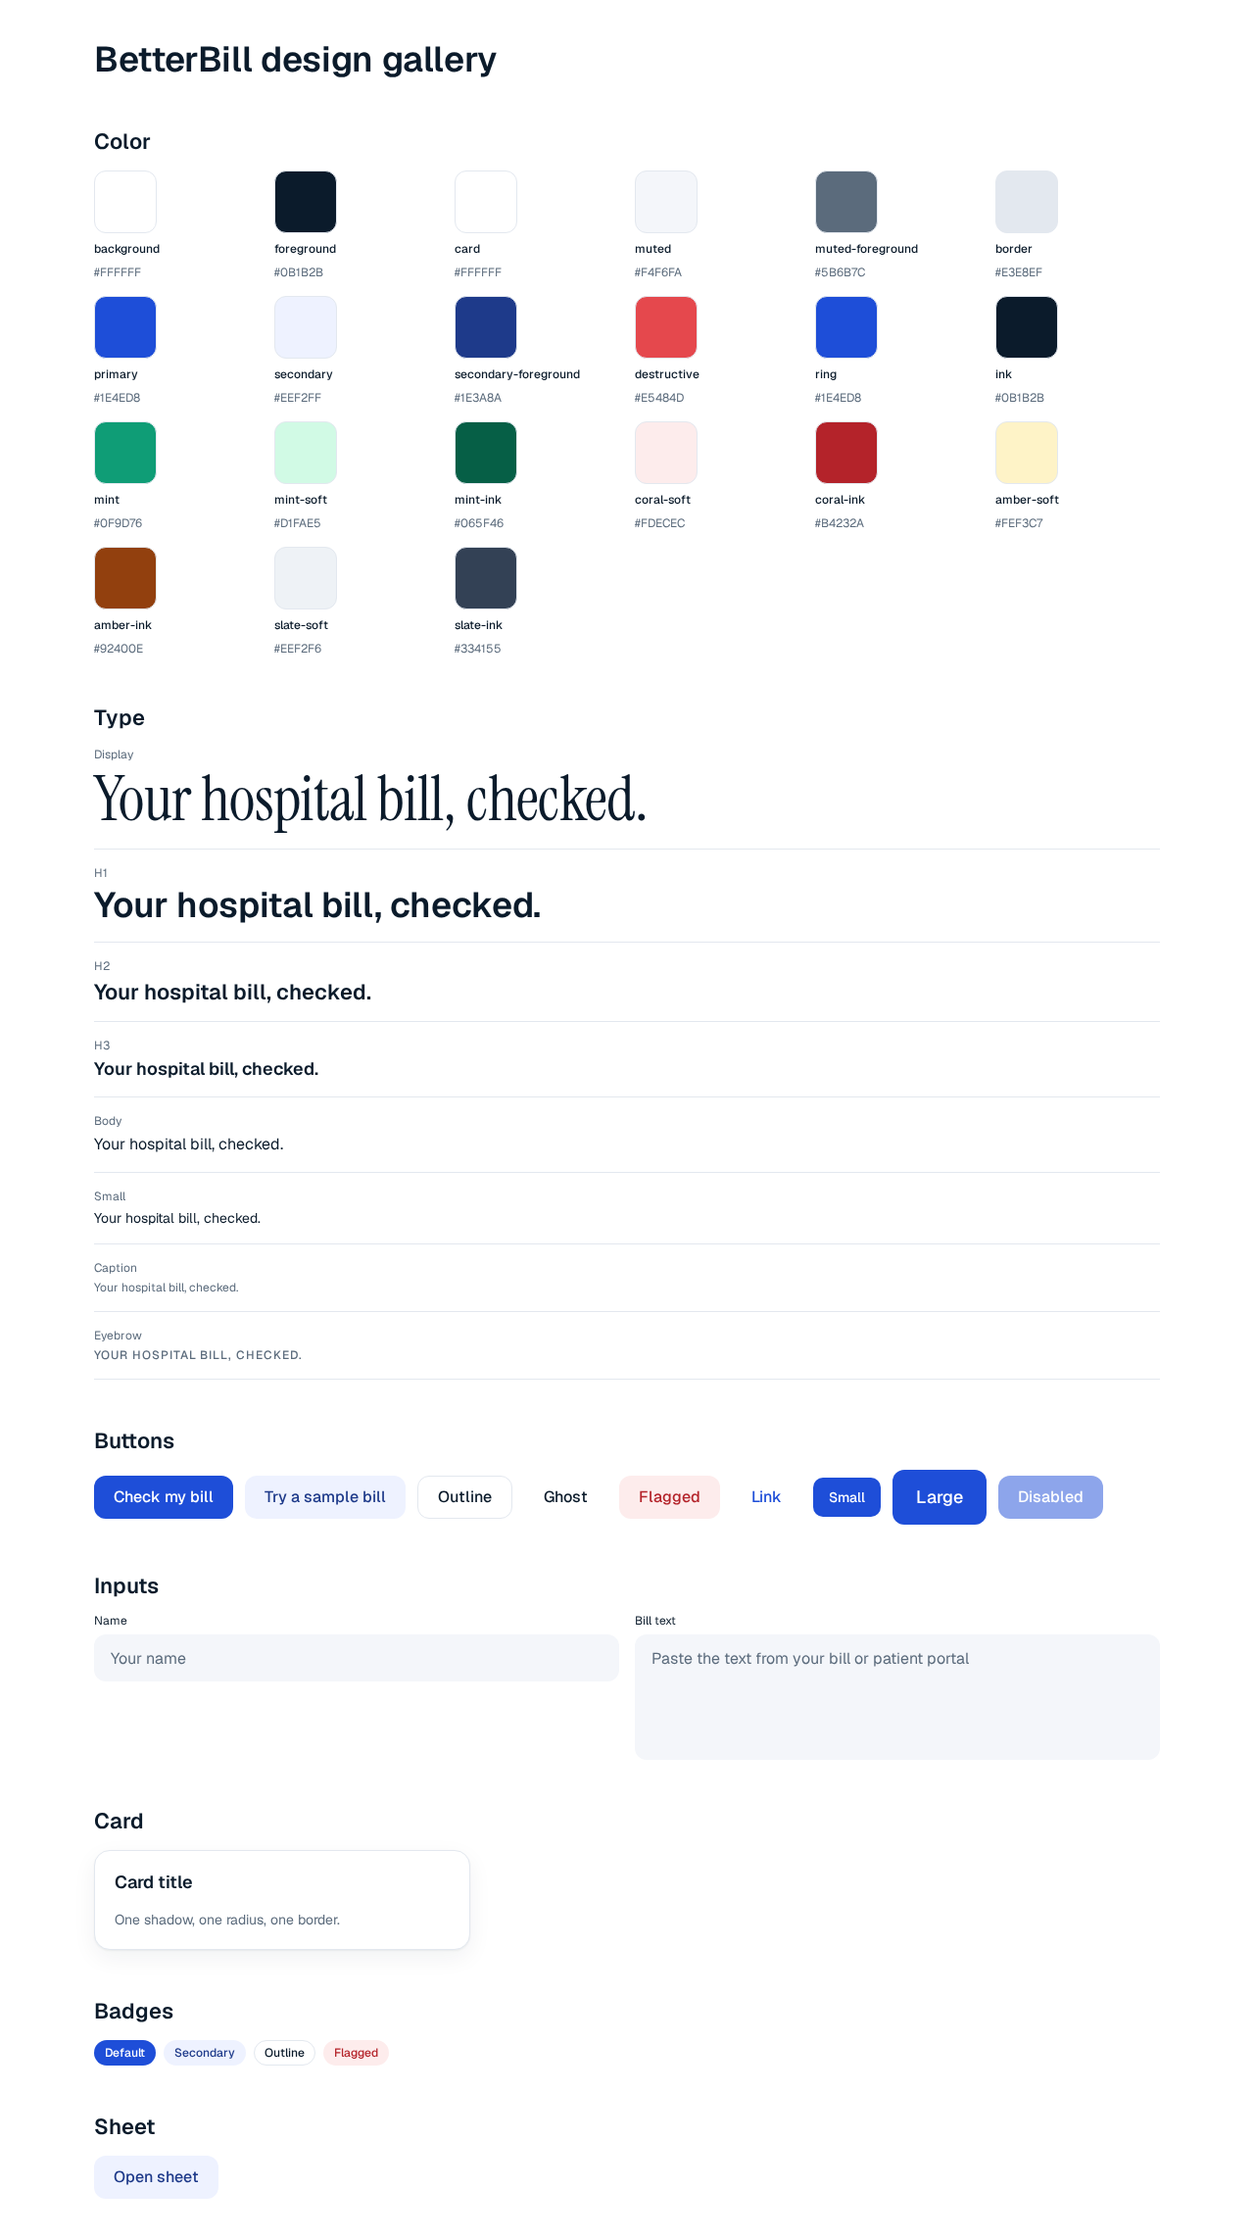
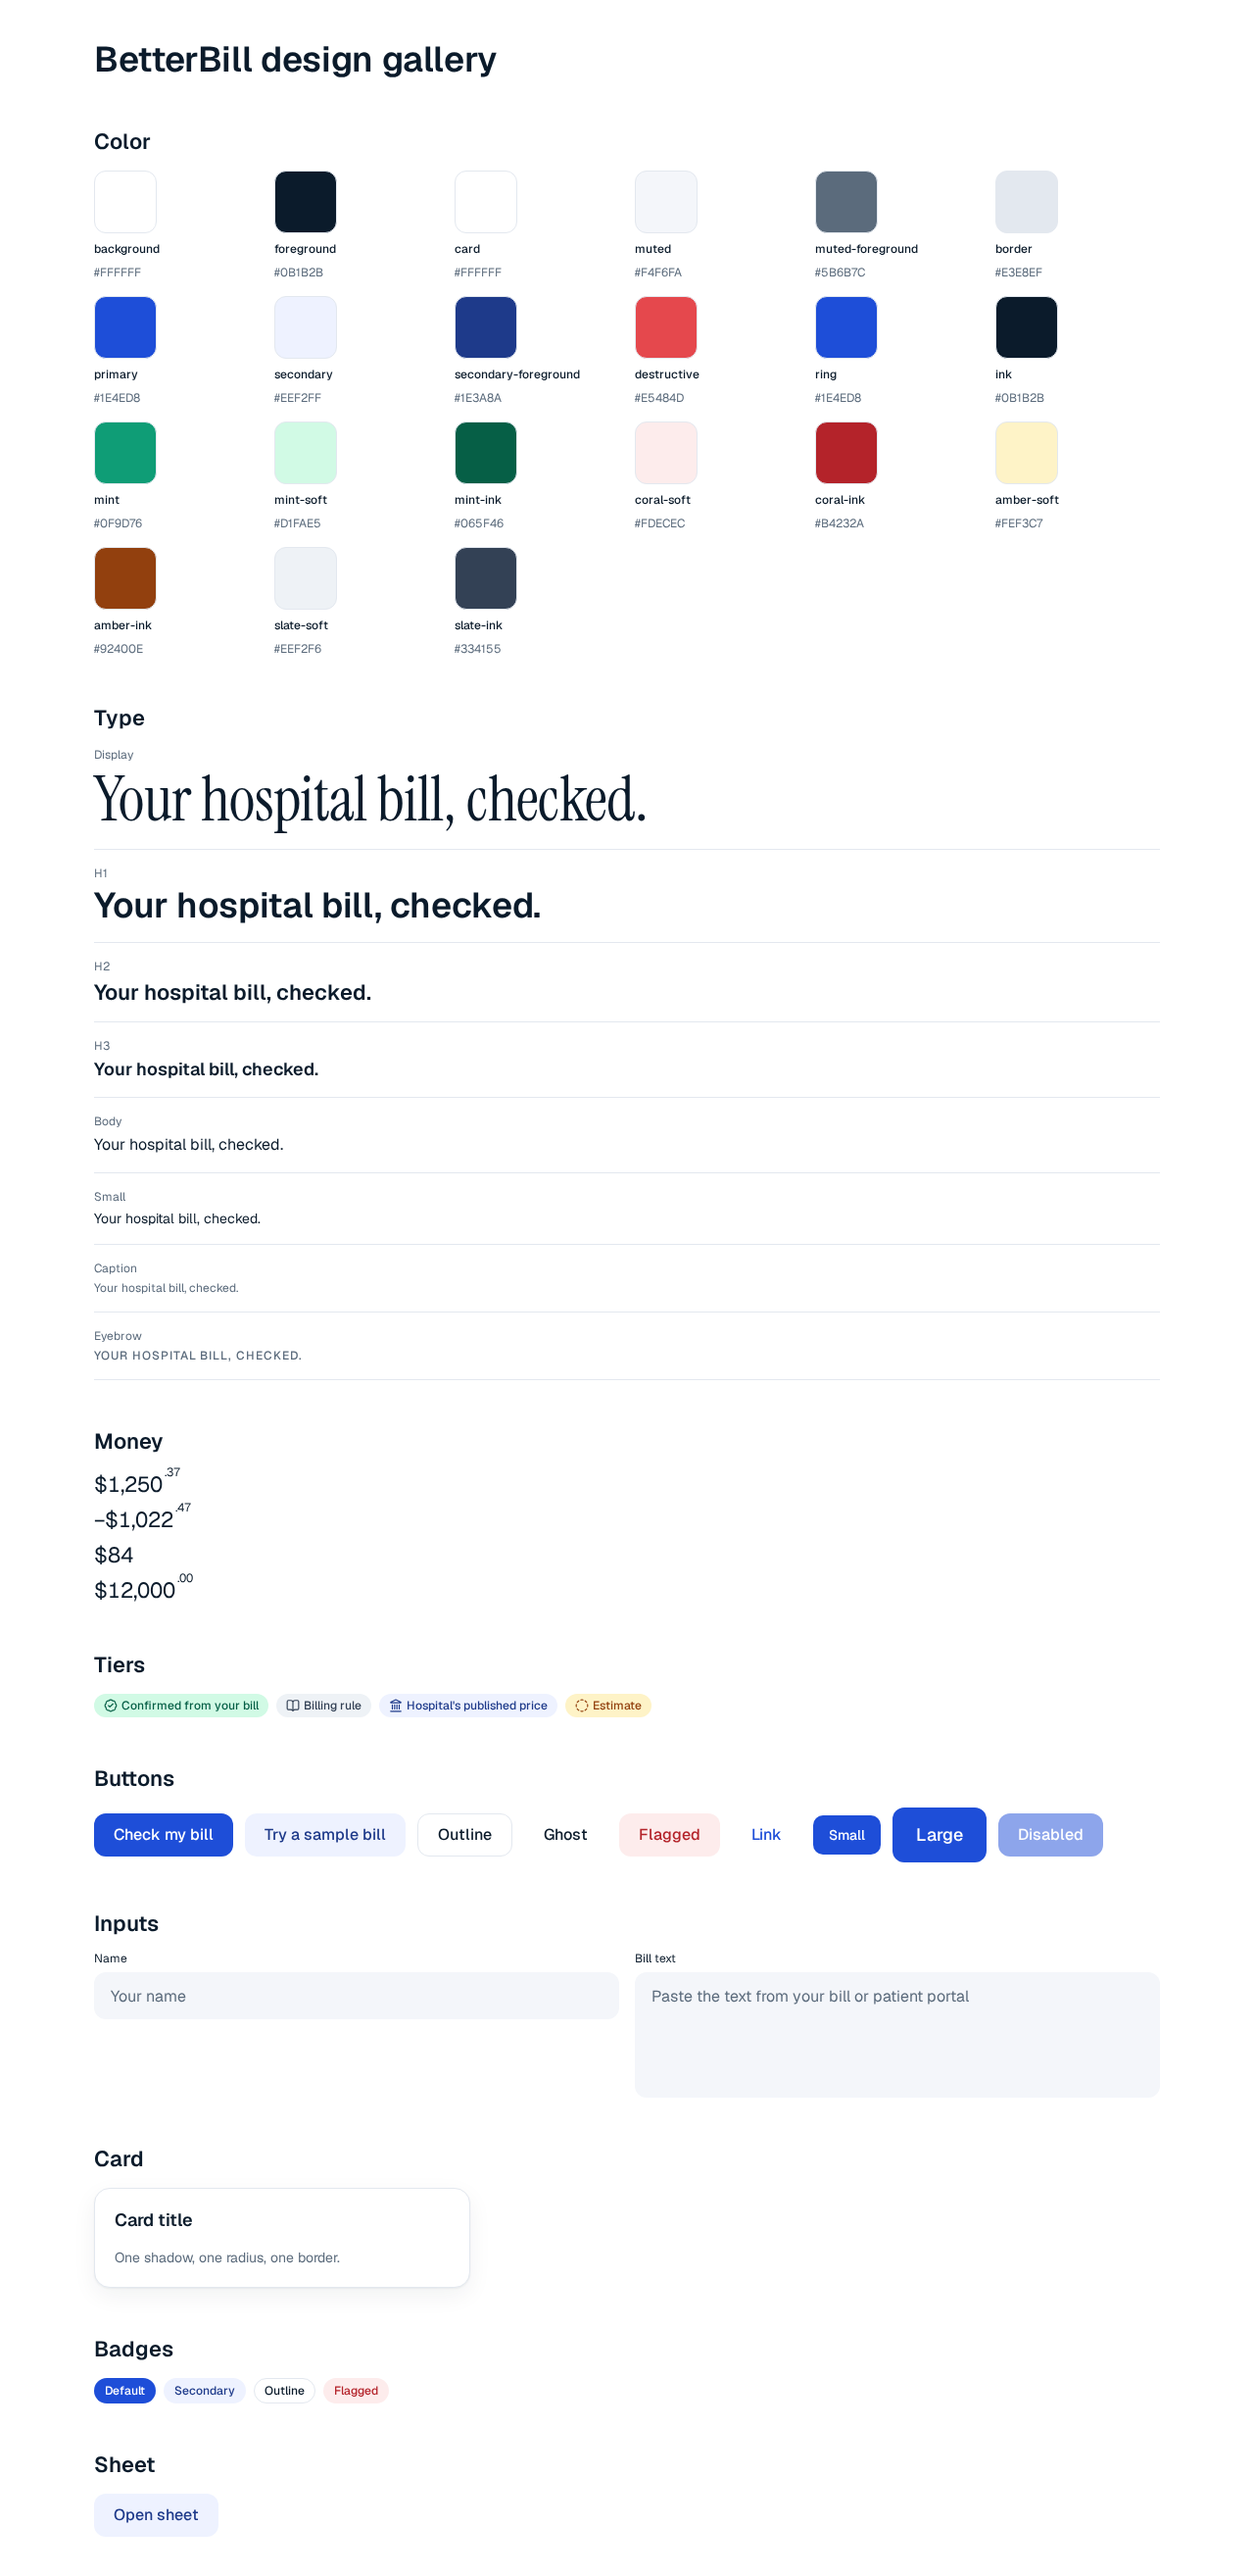
feat(ui): Money and TierBadge (D-04)

diff --git a/packages/ui/src/components/bb/money.tsx b/packages/ui/src/components/bb/money.tsx
@@ -1,0 +1,49 @@
+import { cn } from "@betterbill/ui/lib/utils";
+
+type MoneyProps = {
+  cents: number;
+  sign?: "none" | "negative" | "auto";
+  cents_display?: "sup" | "inline" | "hide";
+  label?: string;
+  className?: string;
+};
+
+const dollarsFormat = new Intl.NumberFormat("en-US", {
+  maximumFractionDigits: 0,
+});
+
+export function Money({
+  cents,
+  sign = "none",
+  cents_display = "sup",
+  label,
+  className,
+}: MoneyProps) {
+  const negative = sign === "negative" || (sign === "auto" && cents < 0);
+  const abs = Math.abs(cents);
+  const dollars = Math.trunc(abs / 100);
+  const remainder = String(abs % 100).padStart(2, "0");
+  const dollarsText = dollarsFormat.format(dollars);
+
+  const spoken = `${negative ? "minus " : ""}${dollarsText} dollars${
+    remainder === "00" ? "" : ` and ${Number(remainder)} cents`
+  }`;
+
+  return (
+    <span
+      className={cn("whitespace-nowrap tabular-nums", className)}
+      role="img"
+      aria-label={label ? `${label}, ${spoken}` : spoken}
+    >
+      <span aria-hidden="true">
+        {negative ? "−" : ""}${dollarsText}
+        {cents_display === "sup" ? (
+          <sup className="relative top-[0.15em] ml-0.5 align-top text-[0.55em]">
+            .{remainder}
+          </sup>
+        ) : null}
+        {cents_display === "inline" ? `.${remainder}` : null}
+      </span>
+    </span>
+  );
+}

diff --git a/packages/ui/src/components/bb/tier-badge.tsx b/packages/ui/src/components/bb/tier-badge.tsx
@@ -1,0 +1,44 @@
+import { cn } from "@betterbill/ui/lib/utils";
+import { BadgeCheck, BookOpen, CircleDashed, Landmark } from "lucide-react";
+
+export type Tier = "confirmed" | "rule" | "published" | "estimate";
+
+type TierBadgeProps = {
+  tier: Tier;
+  size?: "sm" | "md";
+  className?: string;
+};
+
+export const TIER_LABELS: Record<Tier, string> = {
+  confirmed: "Confirmed from your bill",
+  rule: "Billing rule",
+  published: "Hospital's published price",
+  estimate: "Estimate",
+};
+
+const TIERS = {
+  confirmed: { className: "bg-mint-soft text-mint-ink", Icon: BadgeCheck },
+  rule: { className: "bg-slate-soft text-slate-ink", Icon: BookOpen },
+  published: {
+    className: "bg-secondary text-secondary-foreground",
+    Icon: Landmark,
+  },
+  estimate: { className: "bg-amber-soft text-amber-ink", Icon: CircleDashed },
+} as const;
+
+export function TierBadge({ tier, size = "md", className }: TierBadgeProps) {
+  const { className: tone, Icon } = TIERS[tier];
+  return (
+    <span
+      className={cn(
+        "inline-flex items-center gap-1 rounded-full px-2.5 py-1 font-medium text-xs",
+        size === "sm" && "py-0.5",
+        tone,
+        className,
+      )}
+    >
+      <Icon className="size-3.5" strokeWidth={2} aria-hidden="true" />
+      {TIER_LABELS[tier]}
+    </span>
+  );
+}

diff --git a/apps/web/src/routes/design.tsx b/apps/web/src/routes/design.tsx
@@ -1,4 +1,6 @@
 import { Badge } from "@betterbill/ui/components/badge";
+import { Money } from "@betterbill/ui/components/bb/money";
+import { TierBadge } from "@betterbill/ui/components/bb/tier-badge";
 import { Button } from "@betterbill/ui/components/button";
 import {
   Card,
@@ -122,6 +124,32 @@ function DesignPage() {
               <p className={t.className}>Your hospital bill, checked.</p>
             </div>
           ))}
+        </div>
+      </Section>
+
+      <Section title="Money">
+        <ul className="space-y-2 text-[22px] leading-[28px]">
+          <li>
+            <Money cents={125037} />
+          </li>
+          <li data-testid="money-negative">
+            <Money cents={-102247} sign="auto" />
+          </li>
+          <li>
+            <Money cents={8400} cents_display="hide" label="Duplicate charge" />
+          </li>
+          <li>
+            <Money cents={1200000} />
+          </li>
+        </ul>
+      </Section>
+
+      <Section title="Tiers">
+        <div className="flex flex-wrap gap-2">
+          <TierBadge tier="confirmed" />
+          <TierBadge tier="rule" />
+          <TierBadge tier="published" />
+          <TierBadge tier="estimate" />
         </div>
       </Section>
 

diff --git a/e2e/components.spec.ts b/e2e/components.spec.ts
@@ -1,0 +1,28 @@
+import { expect, test } from "@playwright/test";
+
+test("Money renders true minus, superscript cents, and spoken label", async ({
+  page,
+}) => {
+  await page.goto("/design");
+  const negative = page.getByTestId("money-negative").getByRole("img");
+  await expect(negative).toHaveText("−$1,022.47");
+  await expect(negative).toHaveAttribute(
+    "aria-label",
+    "minus 1,022 dollars and 47 cents",
+  );
+  await expect(
+    page.getByRole("img", { name: "Duplicate charge, 84 dollars" }),
+  ).toHaveText("$84");
+});
+
+test("TierBadge shows all four labels", async ({ page }) => {
+  await page.goto("/design");
+  for (const label of [
+    "Confirmed from your bill",
+    "Billing rule",
+    "Hospital's published price",
+    "Estimate",
+  ]) {
+    await expect(page.getByText(label, { exact: true }).first()).toBeVisible();
+  }
+});
